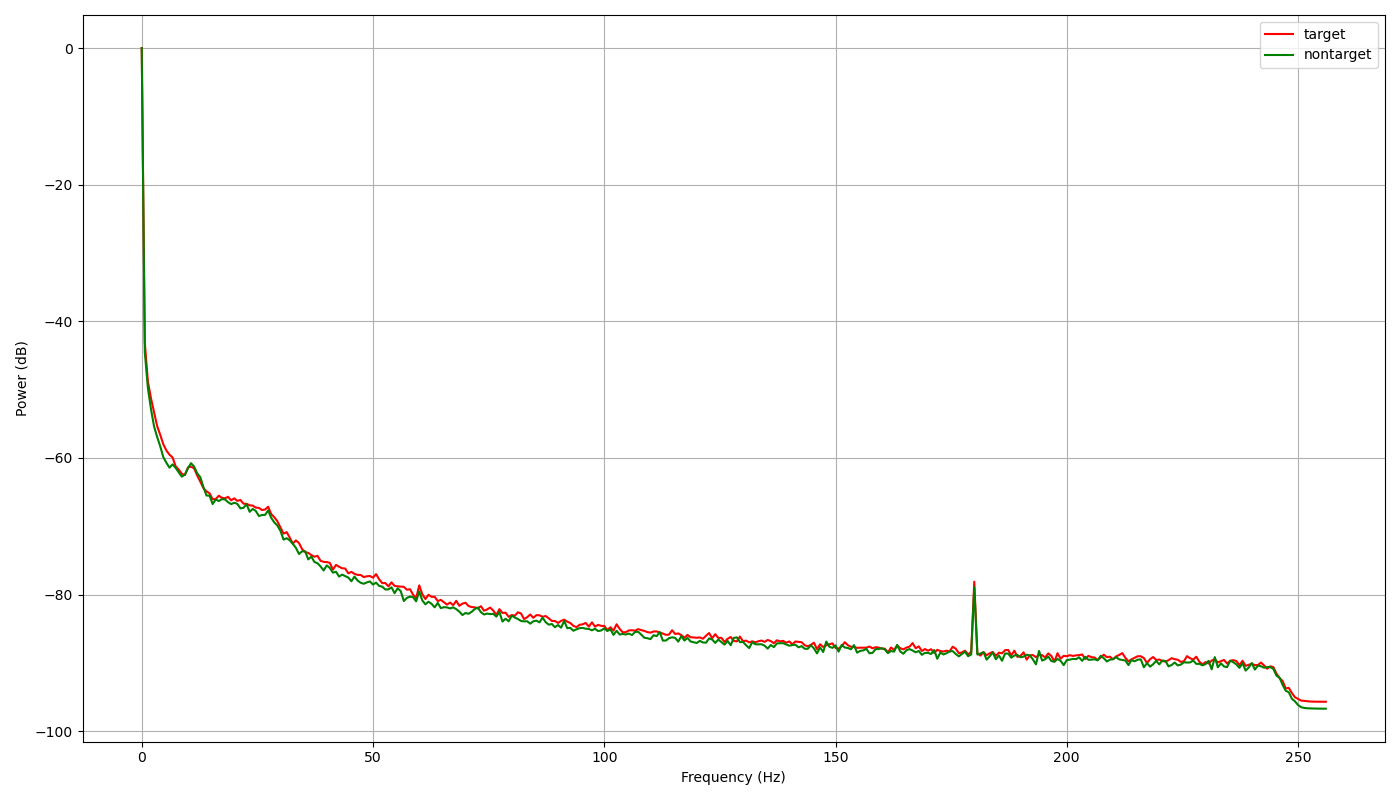
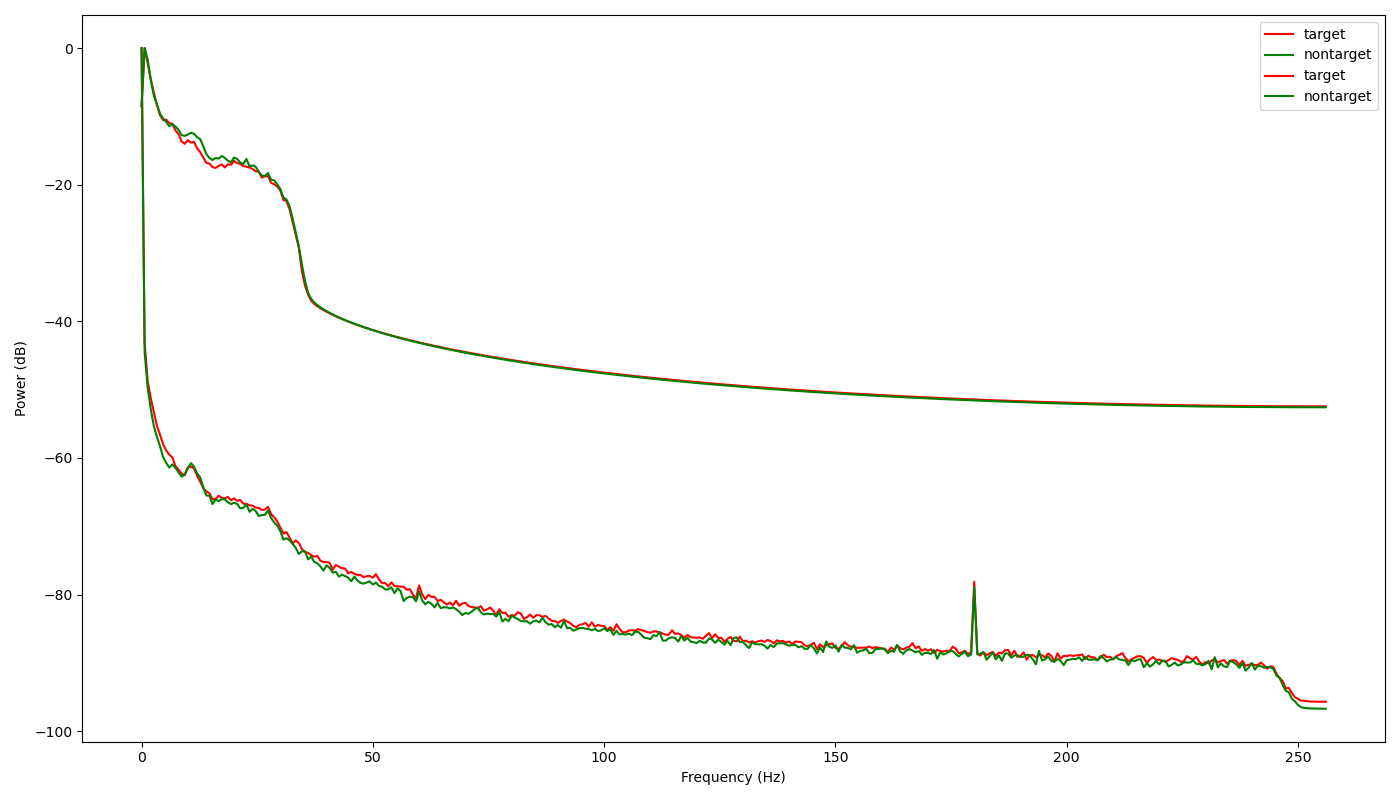
Bandpass filtered and re-referenced raw EEG data
1. bandpass filtered between 1-30Hz
2. re-referenced raw data to average across electrodes
3. generated new plots with pre-processed data

diff --git a/Project3.py b/Project3.py
@@ -20,7 +20,7 @@ from mne.preprocessing import ICA
 # Define figure size
 plt.rcParams["figure.figsize"] = (14,8)
 
-#%% Loading in the data
+#%% Loading in and pre-processing the data
 def load_data(subject):
     '''
     Function to load in the specified subjects .fif data file
@@ -47,6 +47,14 @@ def load_data(subject):
     '''
 
     fif_file=mne.io.read_raw_fif(f'data/P{subject}-raw.fif', preload=True)
+    
+    # pre-processing data before extraction
+    print('Band-pass filtering between 1 - 30 Hz...')
+    fif_file.filter(1,30)
+    print('Rereferencing the raw data to the average across electrodes...')
+    fif_file.set_eeg_reference(ref_channels='average')
+    
+    # extracting data
     raw_eeg_data = fif_file.get_data()[0:64, :]
     channel_names = fif_file.ch_names[0:64]
     eeg_times = fif_file.times
